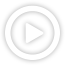
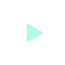
Move videos to dropbox and new play button

diff --git a/web/app/themes/moveapp/home.php b/web/app/themes/moveapp/home.php
@@ -99,33 +99,34 @@ if($posts):
                 <div class="title-wrapper">
                     <h2>Fokus</h2>
                 </div>
-                <video id="video1" width="100%" height="100%" poster="<?= get_template_directory_uri(); ?>/dist/images/videos/video1.png" preload="none">
-                    <source src="<?= get_template_directory_uri(); ?>/videos/video1.mp4" type="video/mp4">
+                <?php $video_basepath = "https://dl.dropboxusercontent.com/u/143100643/moveapp_videos/"; ?>
+                <video id="video1" width="100%" height="100%" poster="<?= $video_basepath; ?>video1.png" preload="none">
+                    <source src="<?= $video_basepath; ?>video1.mp4" type="video/mp4">
                     Your browser does not support the video tag.
                 </video>
-                <img src="<?= get_template_directory_uri(); ?>/dist/images/play.png" class="play-btn" />
+                <img src="<?= get_template_directory_uri(); ?>/dist/images/play_2.png" class="play-btn" />
             </div>
 <!--            Video 2 - Gravidyoga-->
             <div class="col-sm-6 col-md-3 thumb">
                 <div class="title-wrapper">
                     <h2>Gravidyoga</h2>
                 </div>
-                <video width="100%" height="100%" poster="<?= get_template_directory_uri(); ?>/dist/images/videos/video2.png" preload="none">
-                    <source src="<?= get_template_directory_uri(); ?>/videos/video2.mp4" type="video/mp4">
+                <video width="100%" height="100%" poster="<?= $video_basepath; ?>video2.png" preload="none">
+                    <source src="<?= $video_basepath; ?>video2.mp4" type="video/mp4">
                     Your browser does not support the video tag.
                 </video>
-                <img src="<?= get_template_directory_uri(); ?>/dist/images/play.png" class="play-btn" />
+                <img src="<?= get_template_directory_uri(); ?>/dist/images/play_2.png" class="play-btn" />
             </div>
 <!--            Video 3 - Core-->
             <div class="col-sm-6 col-md-3 thumb">
                 <div class="title-wrapper">
                     <h2>Core</h2>
                 </div>
-                <video id="video1" width="100%" poster="<?= get_template_directory_uri(); ?>/dist/images/videos/video3.png" height="100%" preload="none">
-                    <source src="<?= get_template_directory_uri(); ?>/videos/video3.mp4" type="video/mp4">
+                <video id="video1" width="100%" poster="<?= $video_basepath; ?>video3.png" height="100%" preload="none">
+                    <source src="<?= $video_basepath; ?>video3.mp4" type="video/mp4">
                     Your browser does not support the video tag.
                 </video>
-                <img src="<?= get_template_directory_uri(); ?>/dist/images/play.png" class="play-btn" />
+                <img src="<?= get_template_directory_uri(); ?>/dist/images/play_2.png" class="play-btn" />
             </div>
 
 <!--            VIDEO 4 - Styrka-->
@@ -133,55 +134,55 @@ if($posts):
                 <div class="title-wrapper">
                     <h2>Styrka</h2>
                 </div>
-                <video id="video1" width="100%" poster="<?= get_template_directory_uri(); ?>/dist/images/videos/video4.png" height="100%" preload="none">
-                    <source src="<?= get_template_directory_uri(); ?>/videos/video4.mp4" type="video/mp4">
+                <video id="video1" width="100%" poster="<?= $video_basepath; ?>video4.png" height="100%" preload="none">
+                    <source src="<?= $video_basepath; ?>video4.mp4" type="video/mp4">
                     Your browser does not support the video tag.
                 </video>
-                <img src="<?= get_template_directory_uri(); ?>/dist/images/play.png" class="play-btn" />
+                <img src="<?= get_template_directory_uri(); ?>/dist/images/play_2.png" class="play-btn" />
             </div>
 <!--            VIDEO 5 - pilates-->
             <div class="col-sm-6 col-md-3 thumb">
                 <div class="title-wrapper">
                     <h2>Pilates</h2>
                 </div>
-                <video id="video1" width="100%" poster="<?= get_template_directory_uri(); ?>/dist/images/videos/video5.png" height="100%" preload="none">
-                    <source src="<?= get_template_directory_uri(); ?>/videos/video5.mp4" type="video/mp4">
+                <video id="video1" width="100%" poster="<?= $video_basepath; ?>video5.png" height="100%" preload="none">
+                    <source src="<?= $video_basepath; ?>video5.mp4" type="video/mp4">
                     Your browser does not support the video tag.
                 </video>
-                <img src="<?= get_template_directory_uri(); ?>/dist/images/play.png" class="play-btn" />
+                <img src="<?= get_template_directory_uri(); ?>/dist/images/play_2.png" class="play-btn" />
             </div>
 <!--            VIDEO 6 - Kampsportsfys-->
             <div class="col-sm-6 col-md-3 thumb">
                 <div class="title-wrapper">
                     <h2>Puls</h2>
                 </div>
-                <video id="video1" width="100%" poster="<?= get_template_directory_uri(); ?>/dist/images/videos/video6.png" height="100%" preload="none">
-                    <source src="<?= get_template_directory_uri(); ?>/videos/video6.mp4" type="video/mp4">
+                <video id="video1" width="100%" poster="<?= $video_basepath; ?>video6.png" height="100%" preload="none">
+                    <source src="<?= $video_basepath; ?>video6.mp4" type="video/mp4">
                     Your browser does not support the video tag.
                 </video>
-                <img src="<?= get_template_directory_uri(); ?>/dist/images/play.png" class="play-btn" />
+                <img src="<?= get_template_directory_uri(); ?>/dist/images/play_2.png" class="play-btn" />
             </div>
 <!--            Video 7 - Yoga-->
             <div class="col-sm-6 col-md-3 thumb">
                 <div class="title-wrapper">
                     <h2>Yoga</h2>
                 </div>
-                <video id="video1" width="100%" poster="<?= get_template_directory_uri(); ?>/dist/images/videos/video7.png" height="100%" preload="none">
-                    <source src="<?= get_template_directory_uri(); ?>/videos/video7.mp4" type="video/mp4">
+                <video id="video1" width="100%" poster="<?= $video_basepath; ?>video7.png" height="100%" preload="none">
+                    <source src="<?= $video_basepath; ?>video7.mp4" type="video/mp4">
                     Your browser does not support the video tag.
                 </video>
-                <img src="<?= get_template_directory_uri(); ?>/dist/images/play.png" class="play-btn" />
+                <img src="<?= get_template_directory_uri(); ?>/dist/images/play_2.png" class="play-btn" />
             </div>
 <!--            Video 8 - Dans-->
             <div class="col-sm-6 col-md-3 thumb">
                 <div class="title-wrapper">
                     <h2>Dans</h2>
                 </div>
-                <video id="video1" width="100%" poster="<?= get_template_directory_uri(); ?>/dist/images/videos/video8.png" height="100%" preload="none">
-                    <source src="<?= get_template_directory_uri(); ?>/videos/video8.mp4" type="video/mp4">
+                <video id="video1" width="100%" poster="<?= $video_basepath; ?>video8.png" height="100%" preload="none">
+                    <source src="<?= $video_basepath; ?>video8.mp4" type="video/mp4">
                     Your browser does not support the video tag.
                 </video>
-                <img src="<?= get_template_directory_uri(); ?>/dist/images/play.png" class="play-btn" />
+                <img src="<?= get_template_directory_uri(); ?>/dist/images/play_2.png" class="play-btn" />
             </div>
         </div>
         <div class="container text-wrapper">
